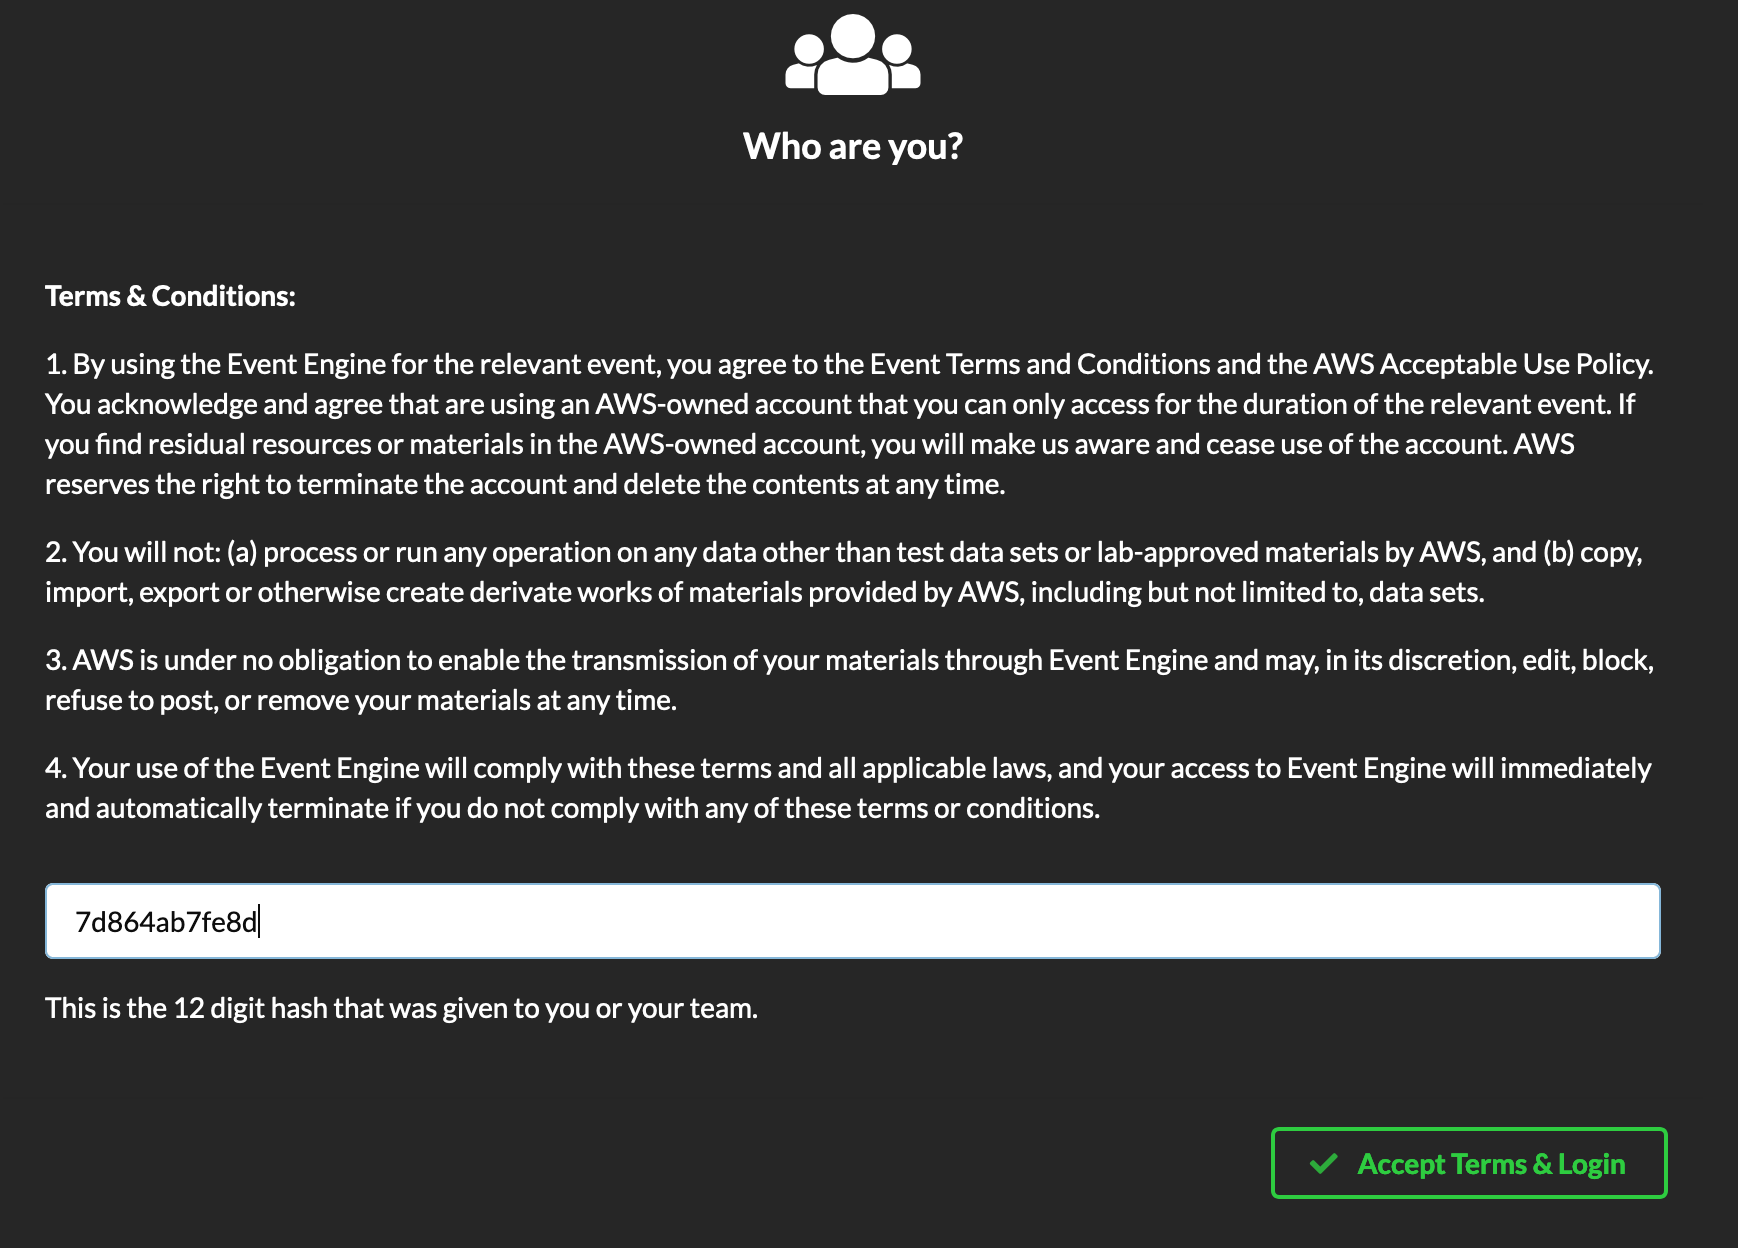
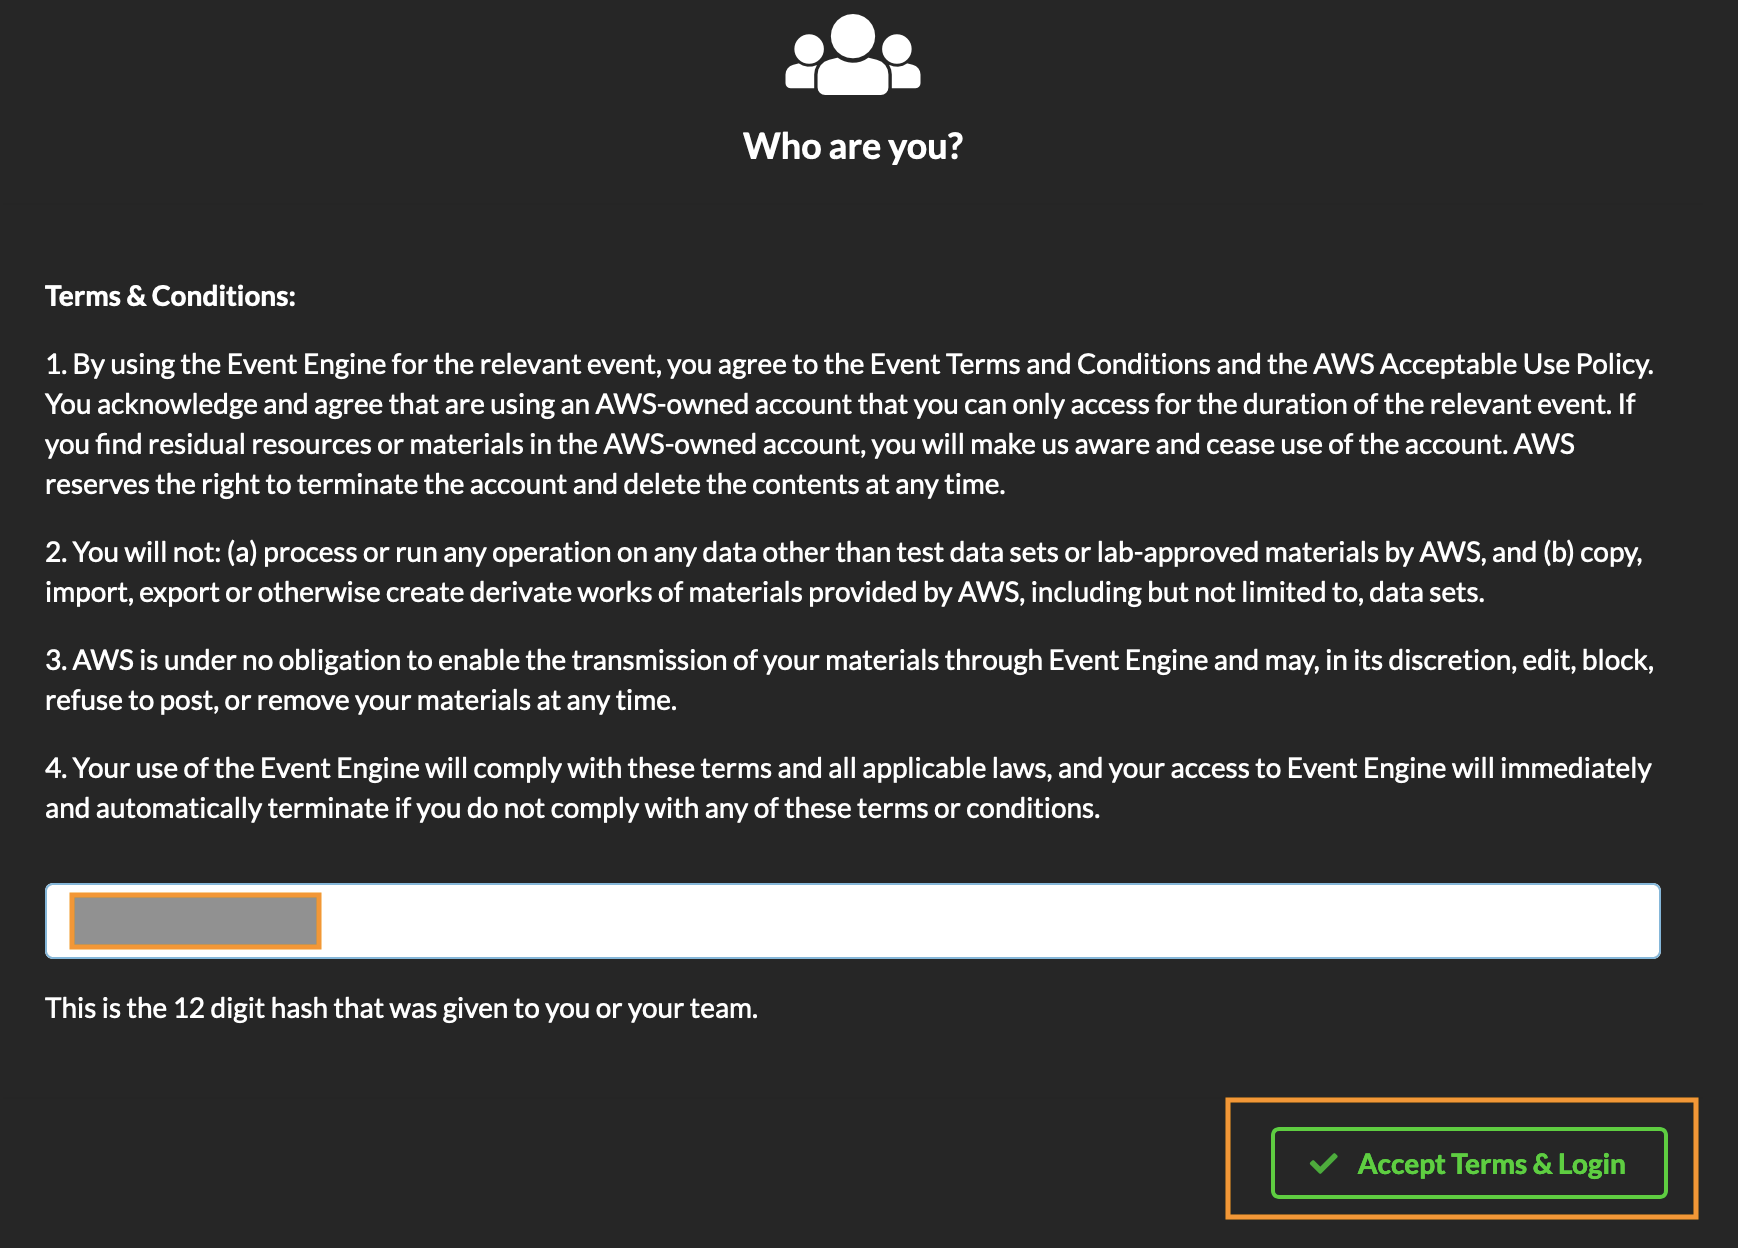
Adding event engine instructions

Changed region(s): [[0.6835, 0.875, 0.9942, 1.0], [0.0311, 0.6875, 0.1864, 0.7812]]

diff --git a/README.md b/README.md
@@ -17,13 +17,22 @@ This workshop is divided into three modules.
   (Note that this is applicable to you, if you are working in AWS conducted workshop)
     1. Login to AWS Console using the details provided
     
-    <details>
-        <summary>Click to expand!</summary>
-        
         ![ee-login](images/ee/EventEngine_Login.png)
         
-    </details> 
-       
+        Enter hash provided. Click "Accept Terms & Login"
+        
+        ![ee-login](images/ee/EventEngine_AWSConsole_Button.png) 
+        
+        Click "AWS Console" 
+        
+        ![ee-login](images/ee/EventEngine_AWSConsole_Tab.png) 
+        
+        Select AWS Console
+        
+        You should be in the AWS Console
+        
+        ![ee-login](images/ee/EventEngine_AWSConsole_View.png) 
+        
     2. Navigate to CloudFormation console.  You should see a CloudFormation stack in "CREATE_COMPLETE" status.
     
     3. Navigate to Amazon SNS console.  You should see a SNS Topic created.
